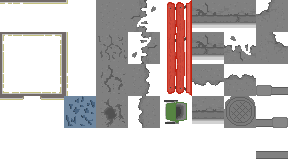
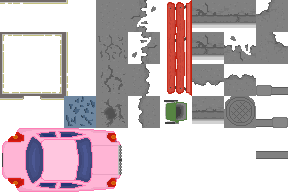
empty stash load & car

diff --git a/map.py b/map.py
@@ -6,7 +6,7 @@ import cocos.euclid as eu
 import cocos.collision_model as cm
 from physics import *
 from cocos.sprite import Sprite
-from item import PickableObject
+from item import PickableObject, Stash, inventory
 
 
 class MapLayer(cocos.layer.ScrollableLayer):
@@ -113,6 +113,14 @@ class map_manager(cocos.scene.Scene):
         scroller.add(self.layer.layer_above, 3)
         scroller.add(self.layer.layer_anim_up, 3)
         scroller.add(self.layer.layer_collision, 1)
+
+        stashes = open("maps/" + cur_map + "/stashes.txt")
+        p = stashes.readline()
+        while p:
+            p = p.split()
+            Stash(inventory(), p[0], (int(p[1]), int(p[2]))).place(scroller)
+            
+            p = stashes.readline()
 
         picks = open("maps/" + cur_map + "/pick.txt")
         p = picks.readline()

diff --git a/item.py b/item.py
@@ -367,7 +367,7 @@ class Stash(cocos.layer.ScrollableLayer):
                                       radius], "circle")
 
     def place(self, scr):
-        scr.add(self, name=self.sprite_name)
+        scr.add(self, 2, name=self.sprite_name)
     
     def select(self):
         self.add(self.selector, name='selector')
